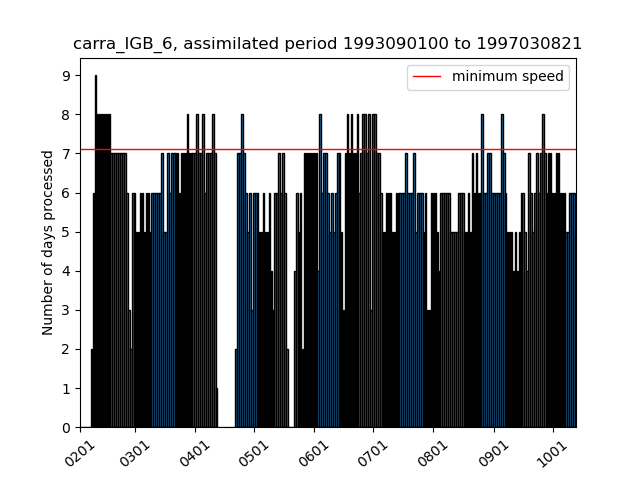
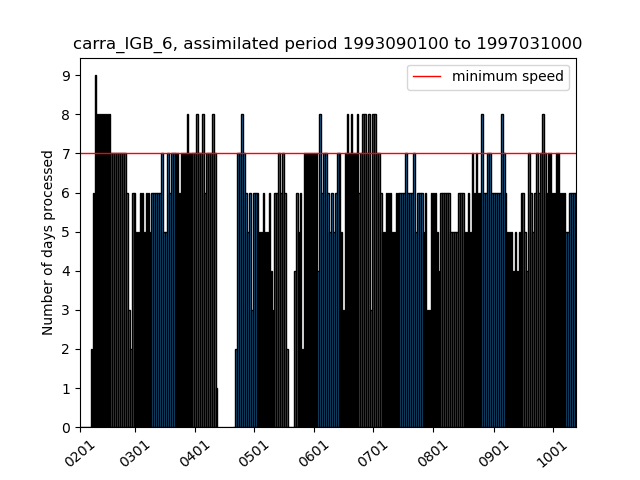
update repo

Changed region(s): [[0.125, 0.2812, 0.9062, 0.3438], [0.8438, 0.0625, 0.9062, 0.125]]

diff --git a/current_state_sims.html b/current_state_sims.html
@@ -2,18 +2,18 @@
 <h1>Estimated completion dates and simulation speeds</h1>
 <p>Stream (production) completion date based on 30d (7d) moving avg speed</p>
 <p><a href="https://docs.google.com/document/d/1zDKAxuEXYnWWYzT3SZnZwY5WW8nodUMeYRjAGz46coc/edit#">Details of the calculation of the completion dates</a></p>
-<p>Last update: 2021/10/14 00:39:42 UTC</p>
+<p>Last update: 2021/10/14 06:42:12 UTC</p>
 <p>Total progress CARRA: 99.66% <a href="https://hirlam.org/portal/CARRA/Progress/GanntChart_CARRA.html"> (see detailed progress meter in Gantt chart) </a></p>
 <p>Total progress PANARCTIC: 91.67% </p>
 <p><a href="https://hirlam.org/portal/CARRA/Progress/waiting_times.html"> Queue waiting times for all streams</a></p>
 <p><a href="https://hirlam.org/portal/CARRA/Progress/mars_status.html"> MARS archive throughput </a></p>
 <html><table border="1"><tr><th>expId</th><th>Current assimilated date</th><th>End date of stream </th><th> Completion date</th><th> Avg. throughput (7d) </th> <th>Avg. throughput (30d) </th> <th> Remarks</tr>
-<tr bgcolor="#33FF38"><td>carra_NE_3</td><td>2021070100</td><td>2021063021</td><td>2021101307</td><td>(0.14) days/day</td><td>(1.37) days/day</td><td>Stream finished</tr>
+<tr bgcolor="#33FF38"><td>carra_NE_3</td><td>2021070100</td><td>2021063021</td><td>2021101313</td><td>(0.14) days/day</td><td>(1.37) days/day</td><td>Stream finished</tr>
 <tr bgcolor="#33FF38"><td>carra_NE_4</td><td>1992090100</td><td>1992083021</td><td>Finished on 20210824</td><td>(0.0) days/day</td><td>(0.0) days/day</td><td>Stream finished</tr>
 <tr bgcolor="#33FF38"><td>carra_NE_5</td><td>1994090100</td><td>1994083021</td><td>Finished on 20210824</td><td>(0.0) days/day</td><td>(0.0) days/day</td><td>Stream finished</tr>
-<tr bgcolor="#33FF38"><td>carra_NE_6</td><td>1997070100</td><td>1997063021</td><td>2021101112</td><td>(0.0) days/day</td><td>(0.4) days/day</td><td>Stream finished</tr>
-<tr bgcolor="#33FF38"><td>carra_IGB_3</td><td>2021070100</td><td>2021063021</td><td>2021101308</td><td>(0.14) days/day</td><td>(1.47) days/day</td><td>Stream finished</tr>
+<tr bgcolor="#33FF38"><td>carra_NE_6</td><td>1997070100</td><td>1997063021</td><td>2021101118</td><td>(0.0) days/day</td><td>(0.4) days/day</td><td>Stream finished</tr>
+<tr bgcolor="#33FF38"><td>carra_IGB_3</td><td>2021070100</td><td>2021063021</td><td>2021101314</td><td>(0.14) days/day</td><td>(1.47) days/day</td><td>Stream finished</tr>
 <tr bgcolor="#33FF38"><td>carra_IGB_4</td><td>1992090100</td><td>1992083021</td><td>Finished on 20210907</td><td>(0.0) days/day</td><td>(0.0) days/day</td><td>Stream finished</tr>
-<tr bgcolor="#33FF38"><td>carra_IGB_5</td><td>1994090100</td><td>1994083021</td><td>2021101303</td><td>(0.0) days/day</td><td>(2.27) days/day</td><td>Stream finished</tr>
-<tr bgcolor="#FFA500"><td>carra_IGB_6</td><td>1997030821</td><td>1997063021</td><td>2021110119</td><td>(5.57) days/day</td><td>(6.07) days/day</td><td>Completion date after project end (20211031)</tr>
-<tr bgcolor="#33FF38"><td>carra_pan</td><td>2018090100</td><td>2018090100</td><td>2021101400</td><td>(0.71) days/day</td><td>(2.83) days/day</td><td>Stream finished</tr>
+<tr bgcolor="#33FF38"><td>carra_IGB_5</td><td>1994090100</td><td>1994083021</td><td>2021101309</td><td>(0.0) days/day</td><td>(2.27) days/day</td><td>Stream finished</tr>
+<tr bgcolor="#FFA500"><td>carra_IGB_6</td><td>1997031000</td><td>1997063021</td><td>2021110115</td><td>(5.71) days/day</td><td>(6.1) days/day</td><td>Completion date after project end (20211031)</tr>
+<tr bgcolor="#33FF38"><td>carra_pan</td><td>2018090100</td><td>2018090100</td><td>2021101406</td><td>(0.71) days/day</td><td>(2.83) days/day</td><td>Stream finished</tr>
